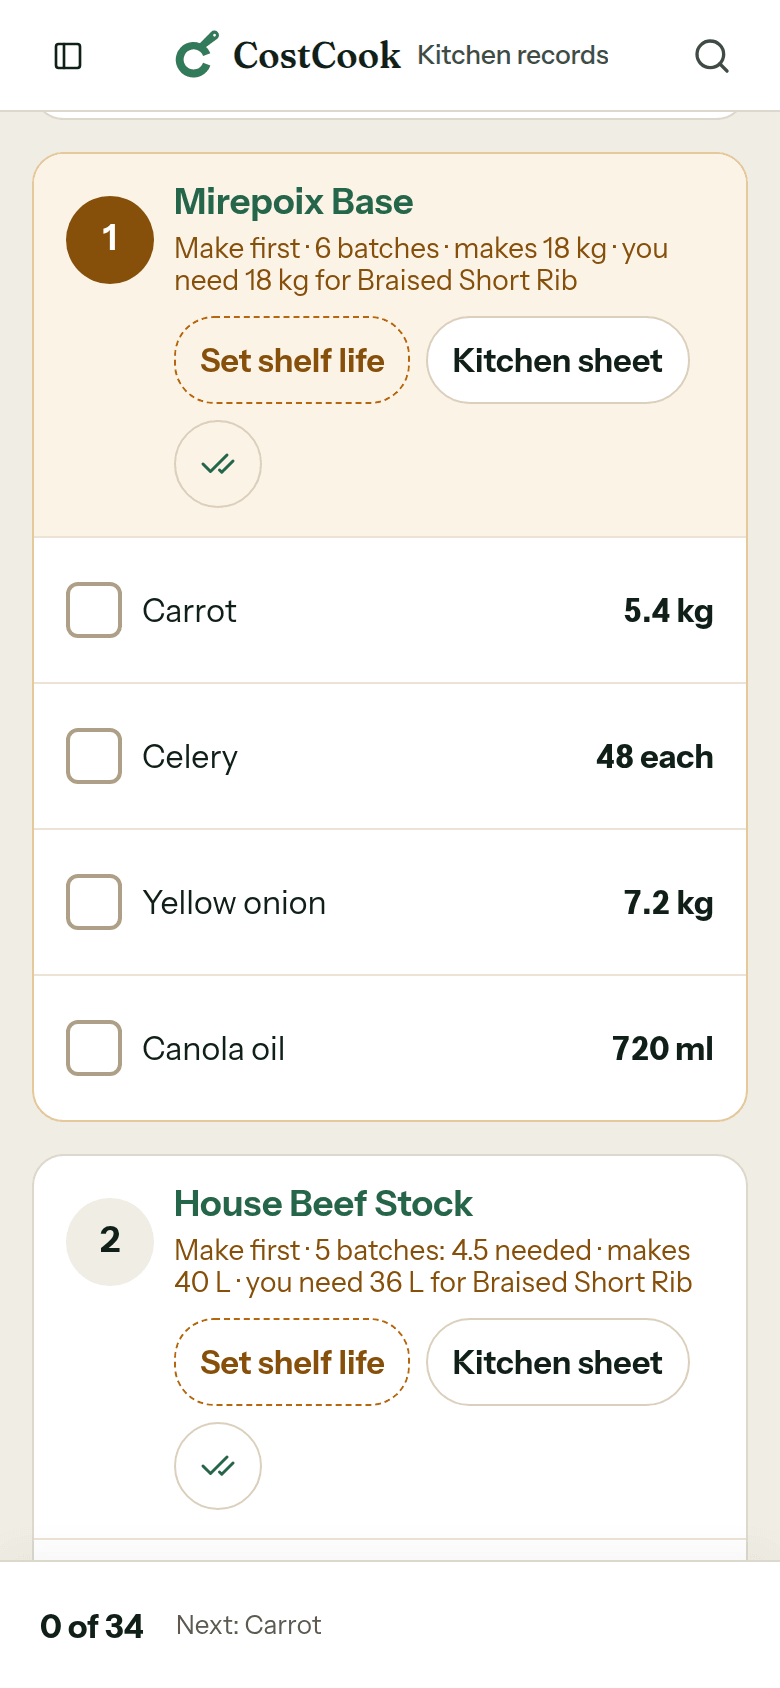
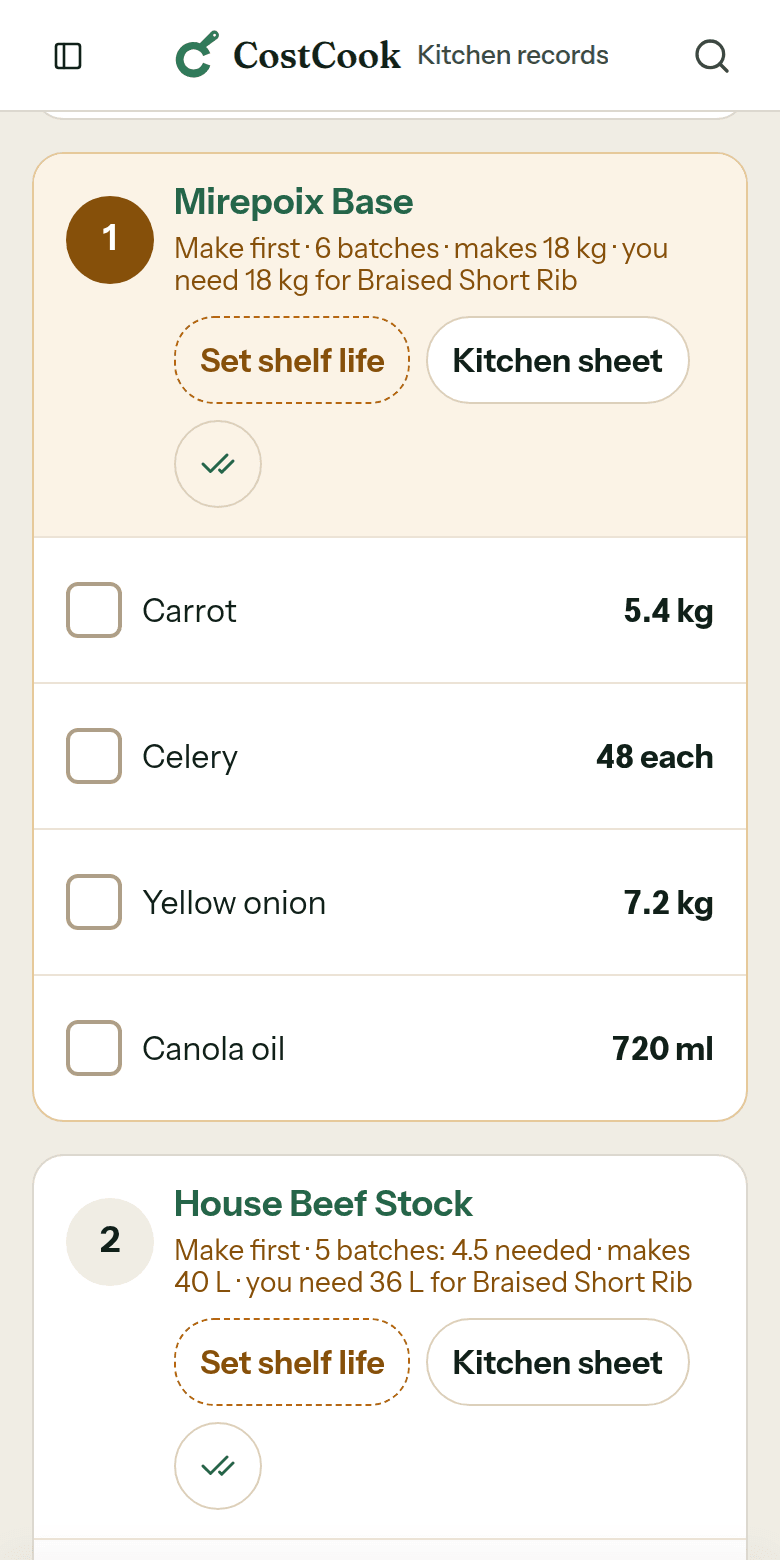
feat(home): show the event walk as a connected workflow rail
The stage tabs and the "How it fits together" tickets become one rail:
every stage visible in order, a carry line between stages naming what
passes on (Priya Nair · 150 guests; $14,250.00 accepted, asked as
$3,500.00 now and $10,750.00 later; the booked wedding; the same menu,
quantities and prices locked), and amber rings over the real frames
where each figure is, measured from the PNGs. Nothing is hidden without
JavaScript; the nodes fill as stages are reached, inert under reduced
motion. Bands re-alternate from the hero. The inquiry and prep phone
frames are pre-cropped to 780x1560 so the rings line up.

Spec: docs/superpowers/specs/2026-10-06-workflow-rail.md

diff --git a/src/lib/home.ts b/src/lib/home.ts
@@ -24,6 +24,13 @@ export type Shot = {
 	phone?: boolean;
 };
 
+/**
+ * Where a carried figure sits in its frame, in percent of the PNG, measured
+ * from the pixels. The rail draws an amber ring there over the real image; the
+ * PNG itself is never edited.
+ */
+export type Focus = { x: number; y: number; w: number; h: number };
+
 const shot = (name: string, alt: string, px: [number, number], phone = false): Shot => ({
 	src: `/proof/home/${name}.png`,
 	alt,
@@ -38,35 +45,38 @@ export const heroShot = shot(
 	[732, 814]
 );
 
-/** The flow strip: two ways in, one costed order, the kitchen, closeout. */
-export const flowLanes = [
-	{ title: 'Online order', steps: ['Orders on your site', 'You approve', 'Pays by card link'] },
-	{ title: 'Custom event', steps: ['Inquiry', 'Proposal on their phone', 'E-signature', 'Card deposit'] },
-	{ title: 'One costed order', steps: ['Booked, paid, menu and guest count locked'] },
-	{ title: 'Buy · cook · pack', steps: ['Shop', 'Purchase orders', 'Prep', 'Pack'] },
-	{ title: 'Closeout', steps: ['Should have cost against did cost'] }
-] as const;
-
 /**
- * The event walk (rule 4): one tab per stage, in the app's order. Without
- * JavaScript every panel renders, stacked, so nothing is hidden.
+ * The event walk, drawn as the workflow rail
+ * (docs/superpowers/specs/2026-10-06-workflow-rail.md): every stage in the
+ * app's order, and between two stages what carries forward. A carry line
+ * only names what both neighbouring frames show (a name, a count, an amount
+ * that adds up); the rings mark each stage's own figure. The
+ * frames come from two copies of the app (manifest), so dates are never
+ * carried.
  */
 export const eventStages = [
 	{
 		id: 'inquiry',
+		carries: 'Priya Nair · 150 guests',
+		focus: [
+			{ x: 3.5, y: 3, w: 93, h: 7.5 },
+			{ x: 3.5, y: 81.8, w: 93, h: 7.8 }
+		] as Focus[],
 		guide: { href: '/features/events-and-proposals', label: 'How events and proposals work' },
 		tab: 'Inquiry',
 		heading: 'The call goes in rough.',
 		body: 'Only a client or event name is required. A date not decided yet and a guest count that is an estimate are fine.',
 		shot: shot(
 			'inquiry-mobile',
-			'New inquiry on a phone: client Priya Nair by phone call, Nair & Castellano wedding, date not decided yet, 150 guests marked as an estimate.',
-			[780, 2274],
+			'New inquiry on a phone: client Priya Nair, reached by phone call, Nair & Castellano wedding, date not decided yet, 150 guests marked as an estimate.',
+			[780, 1560],
 			true
 		)
 	},
 	{
 		id: 'proposal',
+		carries: '$14,250.00 accepted, asked as $3,500.00 now and $10,750.00 later',
+		focus: [{ x: 4, y: 26.6, w: 92, h: 17.3 }] as Focus[],
 		guide: { href: '/features/events-and-proposals', label: 'How events and proposals work' },
 		tab: 'Proposal',
 		heading: 'She says yes on her phone.',
@@ -80,6 +90,11 @@ export const eventStages = [
 	},
 	{
 		id: 'deposit',
+		carries: 'The booked Nair & Castellano wedding',
+		focus: [
+			{ x: 4.3, y: 14.5, w: 23, h: 17 },
+			{ x: 75, y: 63.8, w: 20.5, h: 9.2 }
+		] as Focus[],
 		guide: { href: '/features/events-and-proposals', label: 'How events and proposals work' },
 		tab: 'Deposit',
 		heading: 'Paid by card from a link.',
@@ -92,6 +107,8 @@ export const eventStages = [
 	},
 	{
 		id: 'confirm',
+		carries: 'The same menu, quantities and prices locked',
+		focus: [{ x: 8.6, y: 32.7, w: 79, h: 20.8 }] as Focus[],
 		guide: { href: '/features/events-and-proposals#booked', label: 'What booked means' },
 		tab: 'Confirm order',
 		heading: acceptanceBoundary,
@@ -111,7 +128,7 @@ export const eventStages = [
 		shot: shot(
 			'prep-list',
 			'Prep list on a phone: Mirepoix Base, make first, 6 batches for 18 kg; carrot 5.4 kg, celery 48 each, yellow onion 7.2 kg; 0 of 34 done.',
-			[780, 1688],
+			[780, 1560],
 			true
 		)
 	}

diff --git a/src/lib/stops.ts b/src/lib/stops.ts
@@ -1,7 +1,6 @@
 // Considered Composite; not used because this is a fixed ordered list, not a tree.
 // Homepage order is shared with the next-section links. Story: homepage-caterer-fixes.
 export const stops = [
-  { id: 'fits', label: 'How it fits together' },
   { id: 'event-walk', label: 'One event, start to booked' },
   { id: 'kitchen', label: 'Costs, buys and labels' },
   { id: 'front', label: 'Orders and invoices' },

diff --git a/docs/superpowers/specs/2026-10-06-homepage-redesign-layout.md b/docs/superpowers/specs/2026-10-06-homepage-redesign-layout.md
@@ -46,3 +46,11 @@ Gate cleared (the video session's app came back up and Confirm order was done). 
 | Close | `HomeClose` | cream | founder portrait, price card | rule 3 exception |
 
 Words and frames: `src/lib/home.ts`. Shared band, sizes and frame: `src/components/home/HomeBand.astro`. Contract: `scripts/check-dist.mjs` (homepage block) and `scripts/check-landing-claims.mjs`.
+
+## Revision (2026-10-06, owner): rule 4 replaced by the workflow rail
+
+The stage tabs and the "How it fits together" tickets are gone. The event walk
+is now the workflow rail (`docs/superpowers/specs/2026-10-06-workflow-rail.md`):
+every stage visible, a carry line between stages, amber rings over the carried
+figures. Bands re-alternate: hero cream, event walk amber, kitchen cream, front
+of house amber, Sage cream, close amber.

diff --git a/docs/stories/homepage-redesign-2026-10.story.md b/docs/stories/homepage-redesign-2026-10.story.md
@@ -110,3 +110,11 @@ Priya's yes comes in, then the deposit.
 - **Canvas brackets** "[$ from orders] / [$ from purchases]" are cut: no
   captured record backs a figure.
 - **Final Image (CTA):** `cta.label`, with the trial terms from `launchPlan`.
+
+### Revision 2026-10-06: the workflow rail
+- The connection is now shown, not told: the event walk is one rail, and a
+  carry line between stages names what passes on (Priya Nair · 150 guests;
+  $14,250.00 accepted, asked as $3,500.00 now and $10,750.00 later; the booked
+  wedding; the same menu, quantities and prices locked). Step 10's hand-offs
+  live on the page itself.
+- "How it fits together" (beat 3) is folded into the rail's lede.

diff --git a/docs/superpowers/specs/2026-10-06-workflow-rail.md b/docs/superpowers/specs/2026-10-06-workflow-rail.md
@@ -1,6 +1,6 @@
 # New pattern: Workflow rail (2026-10-06)
 
-Status: proposed, not built. Replaces rule 4 (stage tabs) and the separate
+Status: built 2026-10-06 (owner chose the recommendation: rail replaces the tabs and the tickets; rings measured from the PNGs). Replaces rule 4 (stage tabs) and the separate
 "How it fits together" ticket strip if the owner approves.
 
 ## Problem
